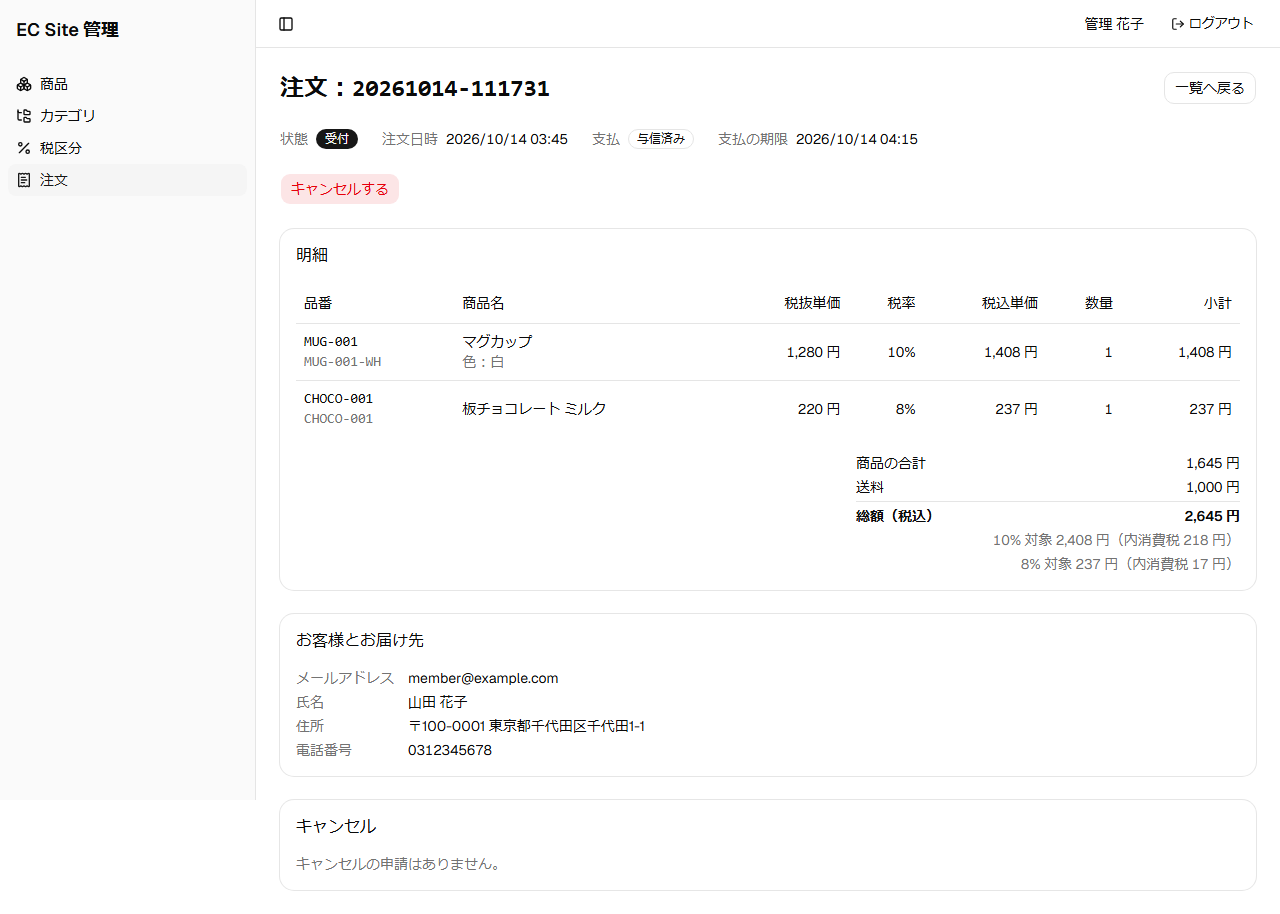
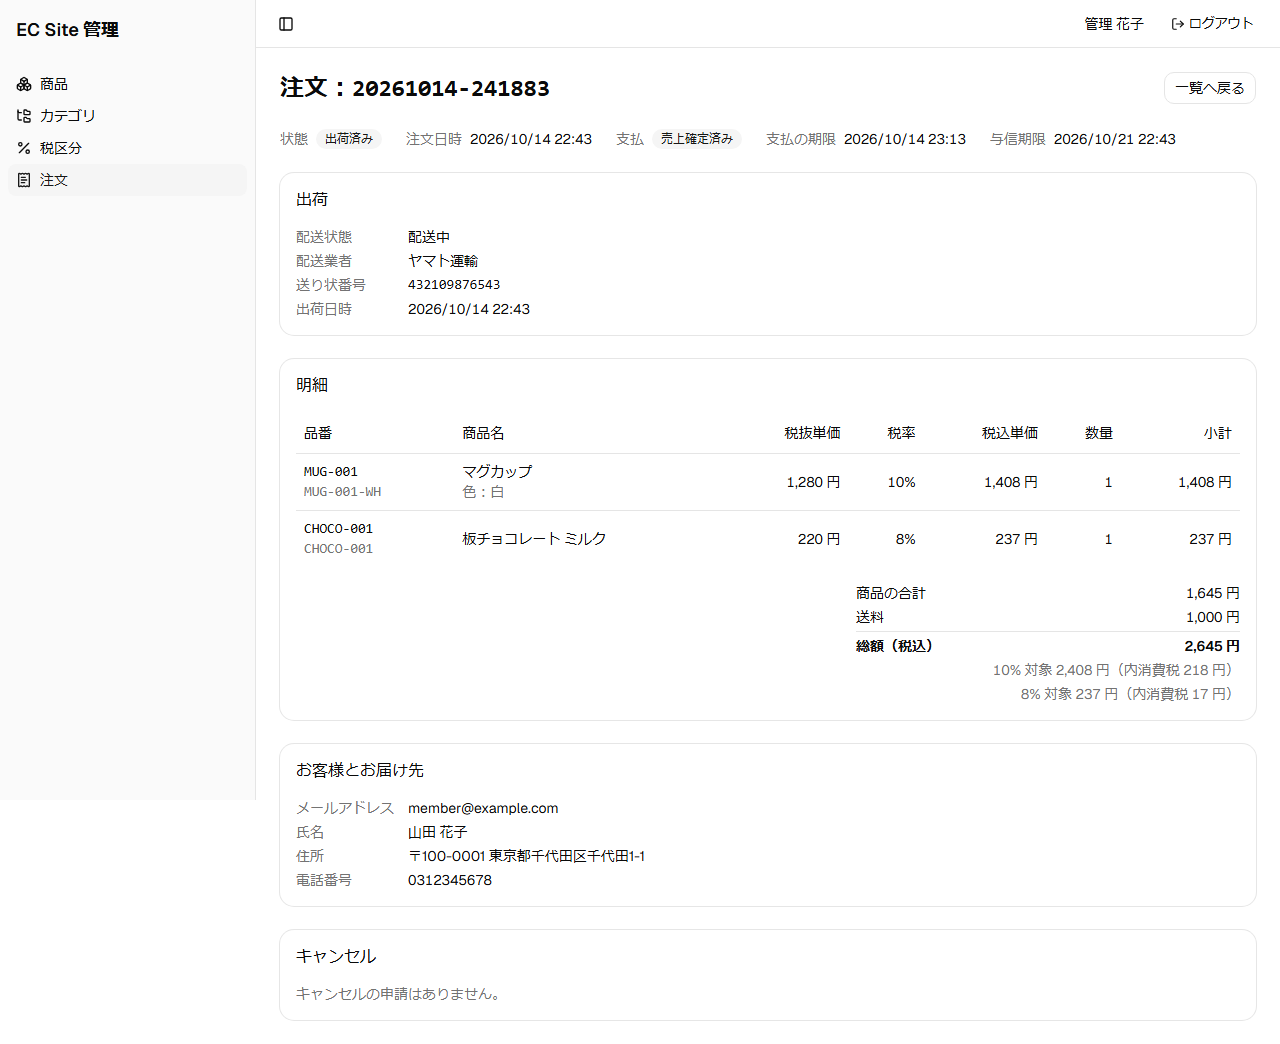
showcase: 出荷と配送状況を機能紹介のページに足す（T9903）
変わった画面（管理画面の注文の一覧と詳細）を撮り直し、店舗画面の配送中の注文を足す。
撮影は出荷を登録して mock の物流で配送中にしてから撮る。ロードマップの出荷を完成にし、AC と spec の数を直す。

diff --git a/showcase/index.html b/showcase/index.html
@@ -203,6 +203,20 @@ footer a { color: inherit; text-decoration: underline; text-underline-offset: 2p
         <figcaption>支払の画面から支払わずに戻った注文。期限までは「支払う」からやり直せます。</figcaption>
       </figure>
     </div>
+
+    <div class="feature flip">
+      <div class="text">
+        <h3>出荷したら、届くまでの状況が見える</h3>
+        <ul>
+          <li>出荷すると、配送業者と送り状番号を書いたメールが届きます。</li>
+          <li>注文の画面と注文の履歴に、「出荷済み」「配送中」「配達完了」と配送の状況が出ます。</li>
+          <li>配送の状況は、配送業者からの知らせで自動で進みます。</li>
+        </ul>
+      </div>
+      <figure>
+        <div class="shot"><img src="img/store-shipping.png" alt="配送中の注文。状態は配送中で、配送業者と送り状番号、明細" width="1280" height="944" loading="lazy"></div>
+      </figure>
+    </div>
   </section>
 
   <section>
@@ -257,16 +271,17 @@ footer a { color: inherit; text-decoration: underline; text-underline-offset: 2p
 
     <div class="feature flip">
       <div class="text">
-        <h3>注文を一覧で見て、必要ならキャンセル</h3>
+        <h3>注文を一覧で見て、出荷する</h3>
         <ul>
           <li>注文の明細を品番・税抜単価・税率・税込単価まで表で確かめられます。</li>
-          <li>支払の状態（未払い・与信済み・与信の取消済みなど）を、注文ごとに確かめられます。</li>
-          <li>お客様のキャンセルの申請を受け、在庫を戻して取り消します。支払済みの注文は、カードの与信も自動で取り消します。</li>
+          <li>配送業者と送り状番号を入れて出荷を登録すると、その時にカードの代金を確定します。確定できなければ、出荷は登録されません。</li>
+          <li>カードの利用枠の確保には期限があるので、期限が近い注文に印を付け、絞り込めます。</li>
+          <li>お客様のキャンセルの申請を受け、在庫を戻して取り消します。返送された注文は、在庫に戻すかを選んで取り消し、代金を返金します。</li>
           <li>担当者ごとに、できる操作を分けられます。</li>
         </ul>
       </div>
       <figure>
-        <div class="shot"><img src="img/admin-order.png" alt="管理画面の注文の詳細。状態と支払の状態、明細の表、税率ごとの内訳、お客様とお届け先" width="1280" height="914" loading="lazy"></div>
+        <div class="shot"><img src="img/admin-order.png" alt="管理画面の注文の詳細。出荷済みで売上確定済み、配送状態・配送業者・送り状番号・出荷日時、明細の表、お客様とお届け先" width="1280" height="1044" loading="lazy"></div>
       </figure>
     </div>
   </section>
@@ -304,9 +319,9 @@ footer a { color: inherit; text-decoration: underline; text-underline-offset: 2p
     </div>
 
     <div class="numbers">
-      <div class="num"><b>166</b><span>文書で決めた「こう動くべき」という条件。すべてにテストを対応させています</span></div>
+      <div class="num"><b>196</b><span>文書で決めた「こう動くべき」という条件。すべてにテストを対応させています</span></div>
       <div class="num"><b>1,100 以上</b><span>自動テストの件数（画面・サーバー・ブラウザでの通し操作）</span></div>
-      <div class="num"><b>8</b><span>仕様書の数。機能を足すたび、また整理するたびに一つ書きます</span></div>
+      <div class="num"><b>9</b><span>仕様書の数。機能を足すたび、また整理するたびに一つ書きます</span></div>
       <div class="num"><b>2</b><span>画面の数（店舗・管理）。文言は差し替えられるように作り、多言語化に備えています</span></div>
     </div>
 
@@ -336,14 +351,14 @@ footer a { color: inherit; text-decoration: underline; text-underline-offset: 2p
     <div class="sec-head">
       <p class="eyebrow">これから</p>
       <h2>閲覧から配送まで、買い物の流れを最後まで</h2>
-      <p>目標は「商品を見る → カート → 注文 → 支払 → 出荷 → 配送状況」の流れを、省略せずに通すことです。</p>
+      <p>「商品を見る → カート → 注文 → 支払 → 出荷 → 配送状況」の流れを、省略せずに通せるようになりました。次は、売上の簡易レポートです。</p>
     </div>
     <div class="road">
       <div class="done"><b>商品・在庫・税率の管理</b><span>完成</span></div>
       <div class="done"><b>カートと注文、キャンセル</b><span>完成</span></div>
       <div class="done"><b>会員登録・ログイン・運営者の権限</b><span>完成</span></div>
       <div class="done"><b>カード決済</b><span>完成</span></div>
-      <div><b>出荷と配送状況</b><span>出荷の登録とお客様への通知、配送状況の確認。出荷のときにカードの売上を確定する。</span></div>
+      <div class="done"><b>出荷と配送状況</b><span>完成</span></div>
       <div><b>売上の簡易レポート</b><span>注文のデータを集め、お店の人が売れ行きを見られるようにする。</span></div>
     </div>
   </section>

diff --git a/e2e/showcase/capture.spec.ts b/e2e/showcase/capture.spec.ts
@@ -6,6 +6,8 @@ import { ACCOUNTS, submitIdpLogin } from '../src/auth'
 const STORE = 'http://localhost:3000'
 /** ローカルの管理画面（開発のサーバー） */
 const ADMIN = 'http://localhost:5173'
+/** ローカルのバックエンド（mock の物流の画面） */
+const BACKEND = 'http://localhost:8080'
 /** 撮った画像の置き場所 */
 const OUT = path.resolve(import.meta.dirname, '../../showcase/img')
 
@@ -130,8 +132,25 @@ test('機能紹介のページのスクリーンショットを撮る', async ({
     await page.goto(`${ADMIN}/tax-categories`)
     await shot(page, 'admin-tax', page.getByRole('table'))
     await page.goto(`${ADMIN}/orders`)
-    await shot(page, 'admin-orders', page.getByRole('columnheader', { name: '支払' }))
+    await shot(page, 'admin-orders', page.getByRole('columnheader', { name: '配送' }))
+  })
+
+  await test.step('管理画面で出荷を登録し、mock の物流で配送中にして、管理画面と店舗画面の注文を撮る', async () => {
     await page.goto(`${ADMIN}/orders/${paidOrderId}`)
-    await shot(page, 'admin-order', page.getByText('与信済み'))
+    await page.getByRole('combobox', { name: '配送業者' }).click()
+    await page.getByRole('option', { name: 'ヤマト運輸' }).click()
+    await page.getByLabel('送り状番号').fill('4321-0987-6543')
+    await page.getByRole('button', { name: '出荷を登録する' }).click()
+    await page.getByRole('alertdialog').getByRole('button', { name: '出荷する' }).click()
+    await expect(page.getByText('出荷を登録しました')).toBeVisible()
+
+    await page.goto(`${BACKEND}/mock-carrier`)
+    await page.getByRole('row').filter({ hasText: paidOrderId }).getByRole('button', { name: '配送中' }).click()
+    await expect(page.getByRole('row').filter({ hasText: paidOrderId }).getByRole('cell').nth(3)).toHaveText('配送中')
+
+    await page.goto(`${ADMIN}/orders/${paidOrderId}`)
+    await shot(page, 'admin-order', page.getByText('売上確定済み'))
+    await page.goto(`${STORE}/orders/${paidOrderId}`)
+    await shot(page, 'store-shipping', page.getByText('配送中', { exact: true }))
   })
 })

diff --git a/docs/specs/009-shipping/tasks/09-review.md b/docs/specs/009-shipping/tasks/09-review.md
@@ -8,5 +8,5 @@
 
 - [x] **T9901** バックエンドの見直し：決済、出荷、注文、通知の順に、spec との食い違い、読みにくさ、コメントの不足を直す。外部の型が `infrastructure` の外に出ていないことを確かめる。
 - [x] **T9902** 店舗画面・管理画面の見直し。
-- [ ] **T9903** 文書の見直し：spec・plan・モジュールの設計書・画面の構成・用語集・README・skill `local-dev` と実装の食い違いを直す。機能紹介のページを撮り直すかを利用者と決める。
+- [x] **T9903** 文書の見直し：spec・plan・モジュールの設計書・画面の構成・用語集・README・skill `local-dev` と実装の食い違いを直す。機能紹介のページを撮り直すかを利用者と決める。
 - [ ] **T9904** 完了確認：直したこと、直さずに残したこと（理由付き）をまとめて報告し、spec 009 を完了にする。

diff --git a/docs/dev/setup.md b/docs/dev/setup.md
@@ -120,7 +120,7 @@ Keycloak の database（`keycloak`）は、PostgreSQL の volume が空のとき
 
 1. バックエンドを止め、DB を作り直す（第 4 節。画面で変えたデータと、前に撮ったときの注文を消すため）。
 2. compose、バックエンド（profile `local`。Stripe の profile は付けない）、店舗画面（:3000）、管理画面（:5173）を起動する（第 2 節）。
-3. `e2e/` で `pnpm capture`。`showcase/img/` の 10 枚を上書きする。
+3. `e2e/` で `pnpm capture`。`showcase/img/` の 11 枚を上書きする。
 
 - 撮影の中で、会員として注文して支払い、もう 1 つ注文して支払わずに戻る（支払待ちの画面のため）。白のマグカップの在庫を 2 つ使うので、続けて撮るときも DB を作り直す。
 - 撮影は E2E ではなく、CI では流さない。撮った画像は目で確かめてから commit する。
